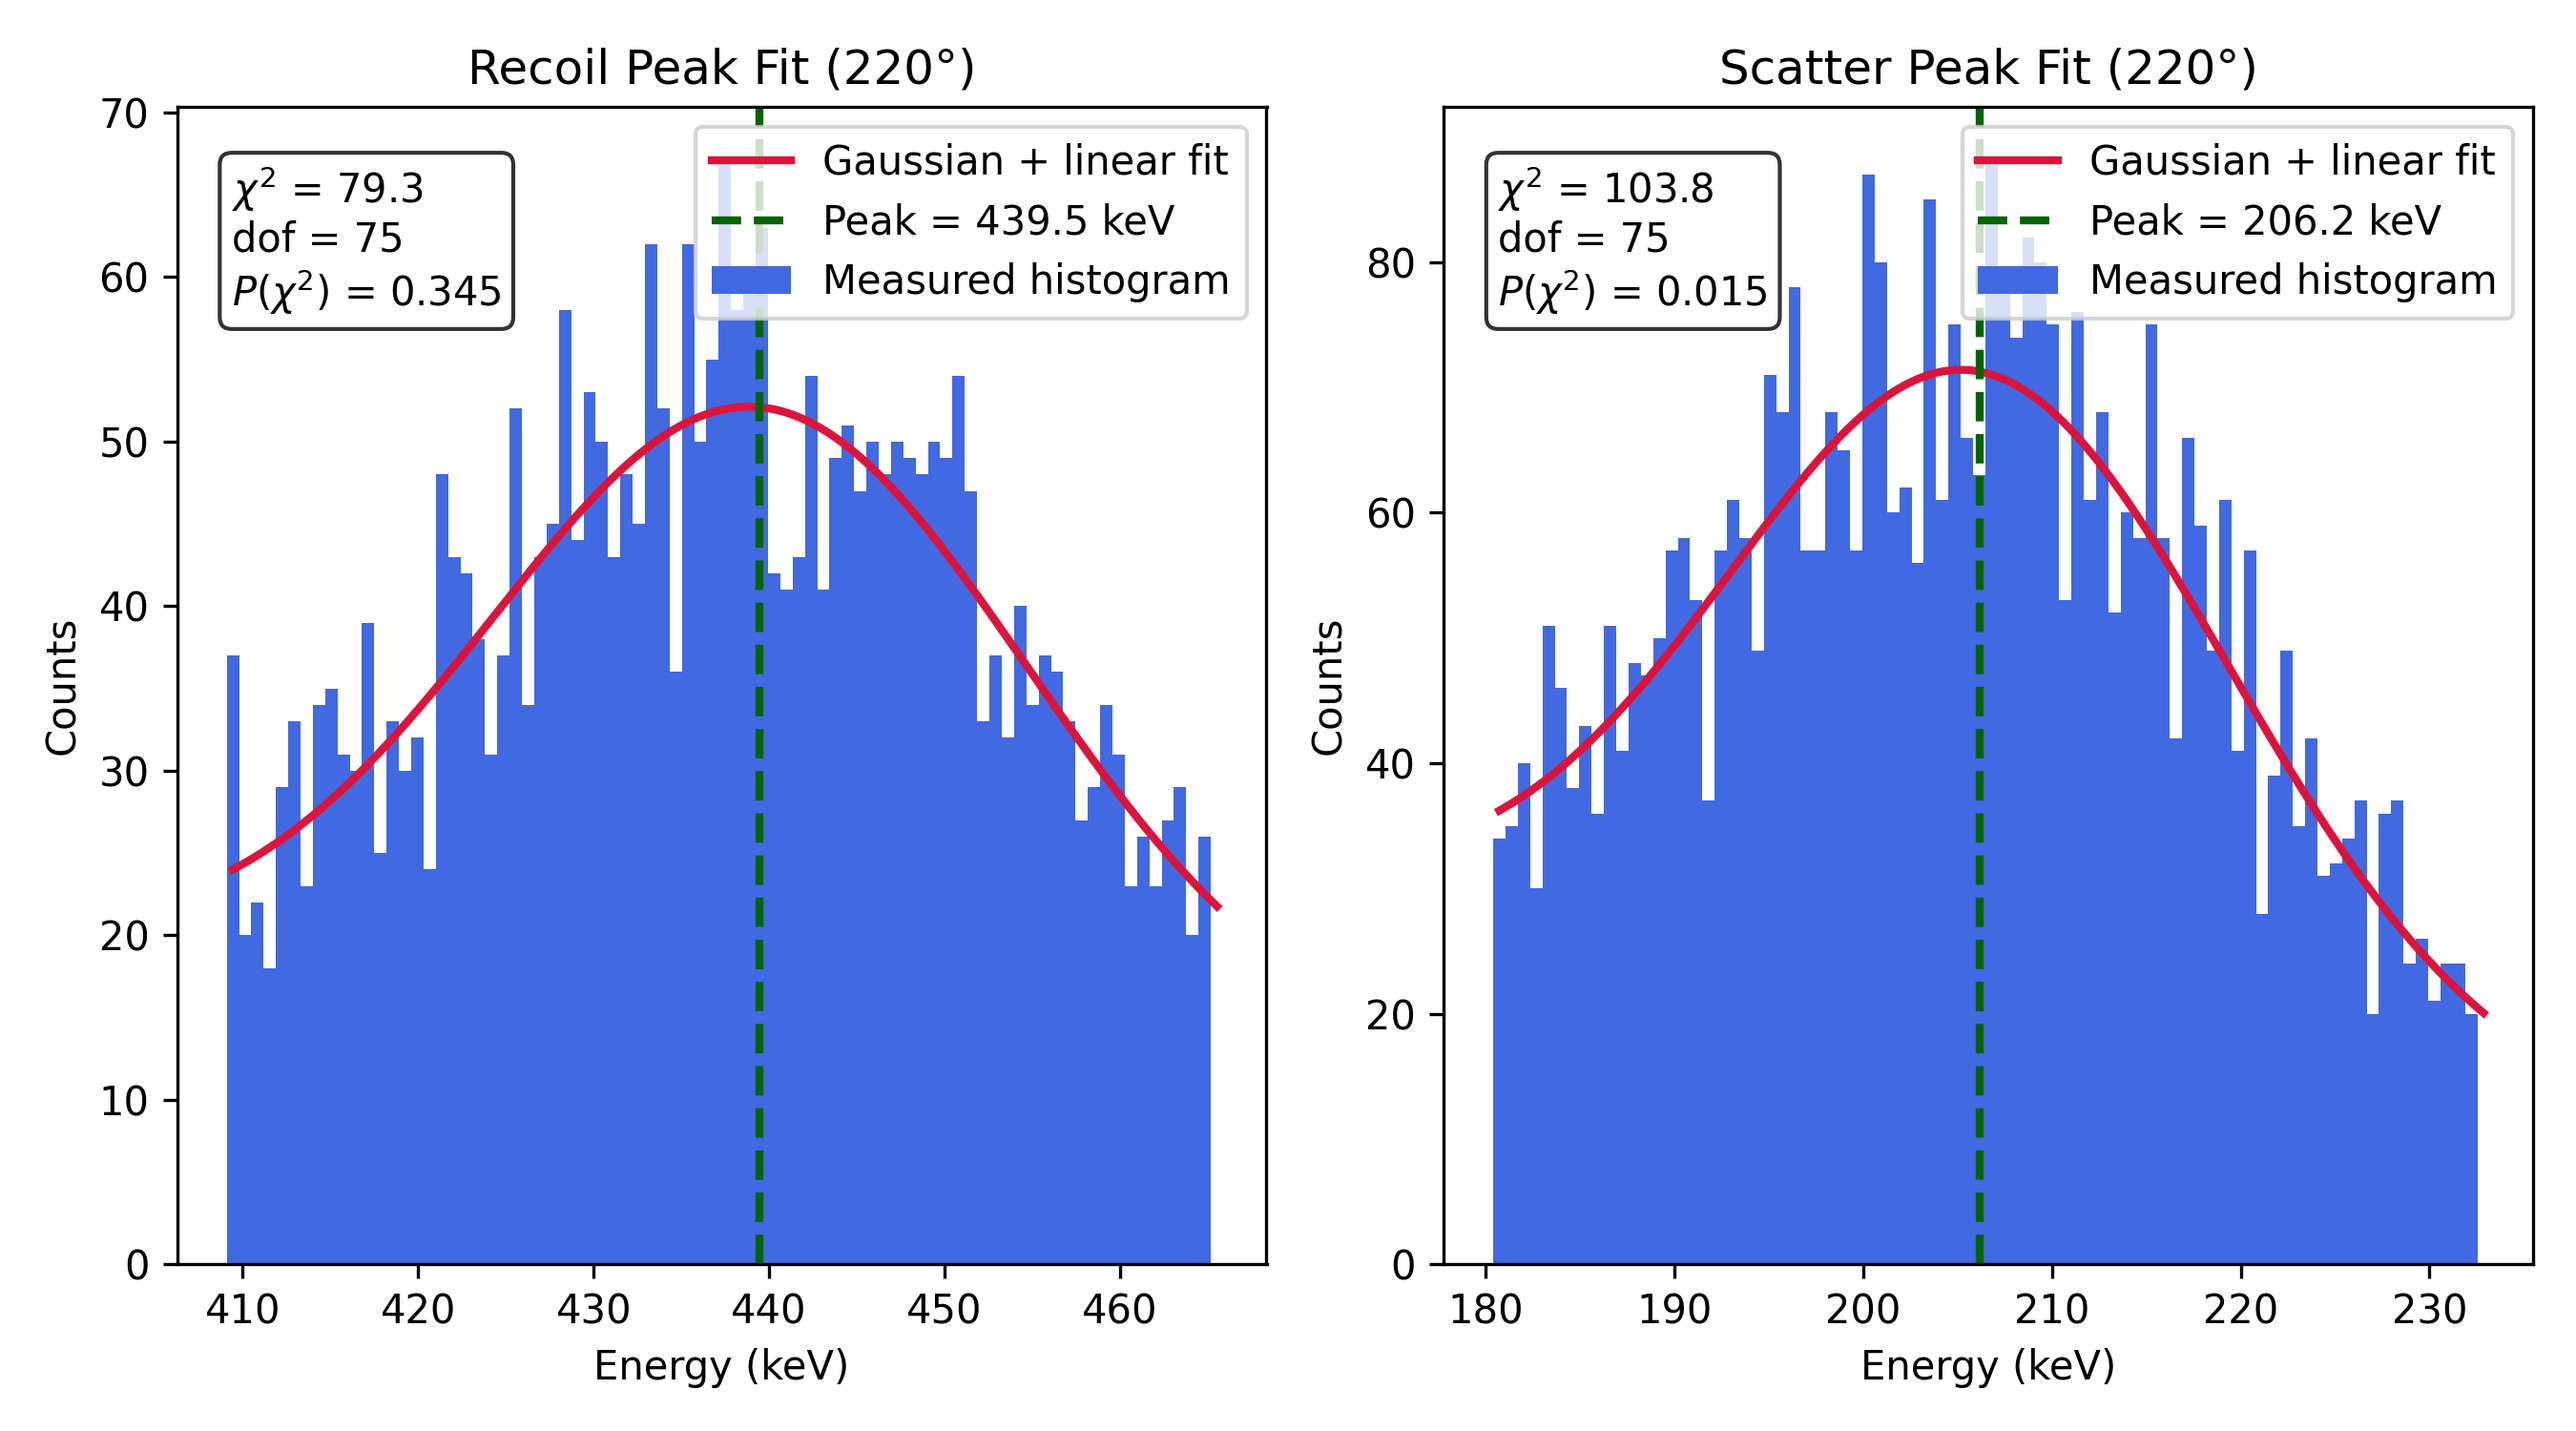
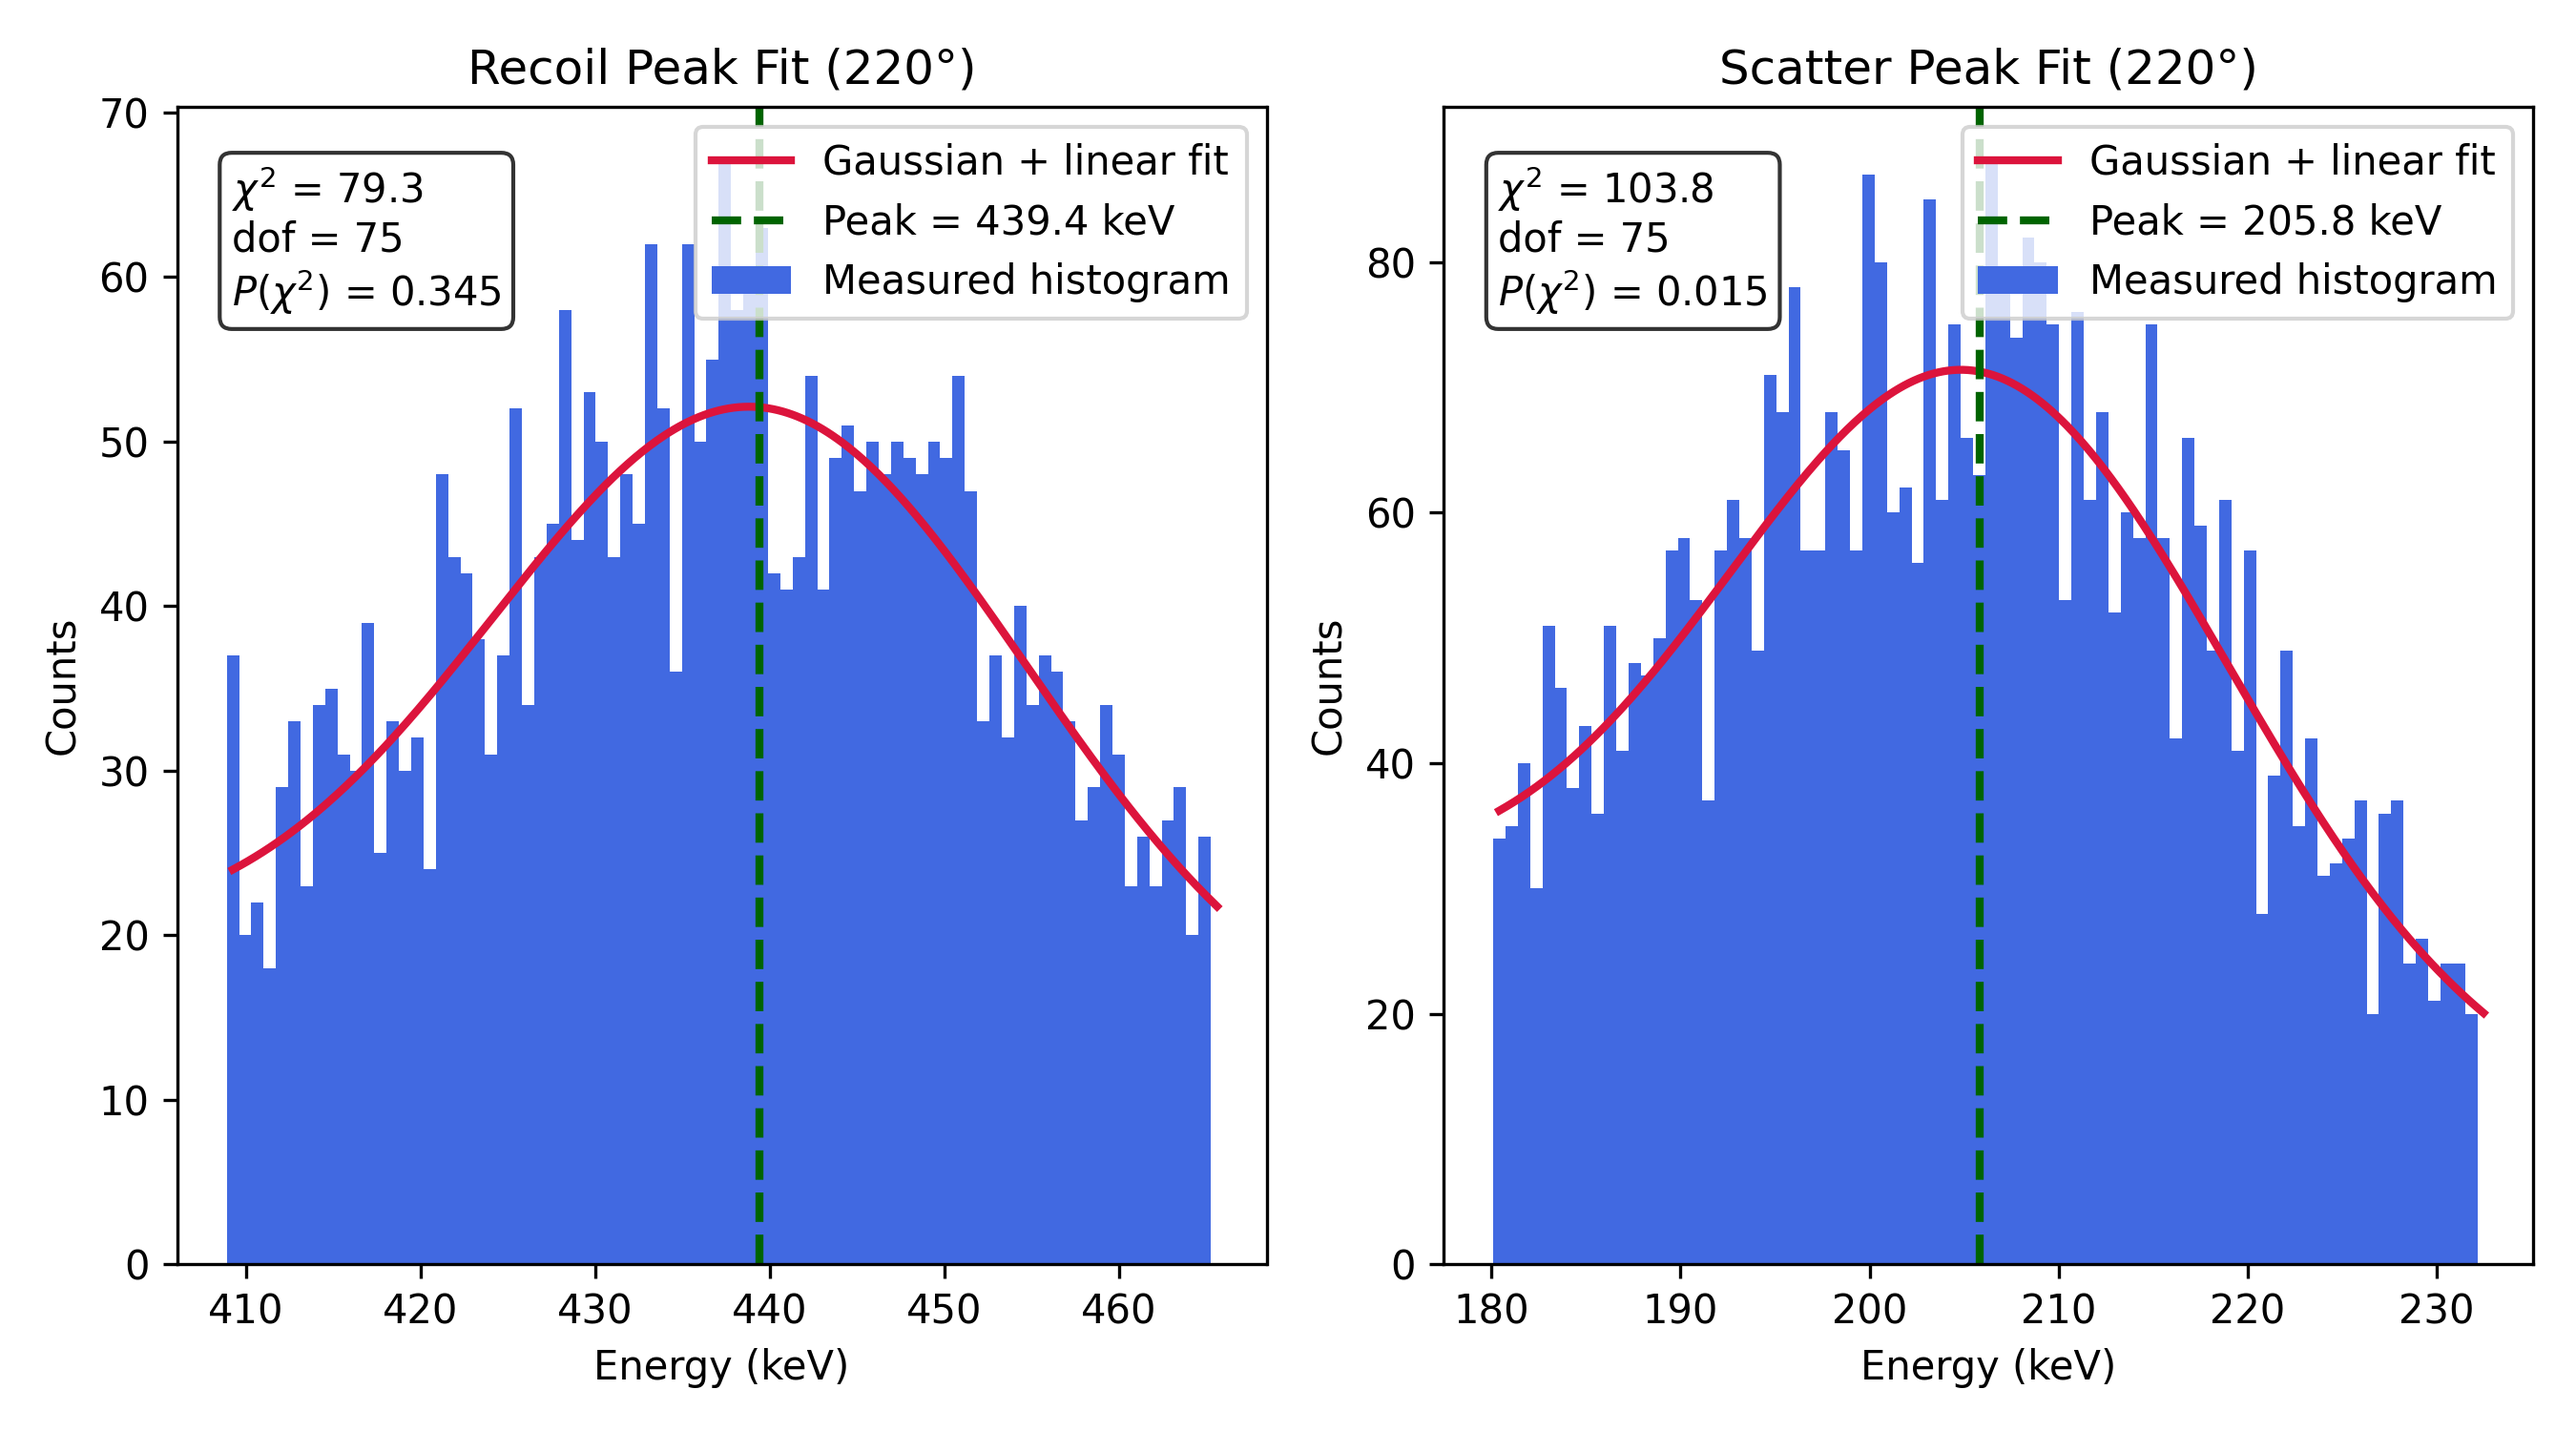
updated analysis

diff --git a/03-10/analysis.py b/03-10/analysis.py
@@ -12,10 +12,10 @@ SMOOTH_FACTOR = 120
 MIN_PROMINENCE = 0.05
 MIN_DISTANCE = 80
 
-RECOIL_SLOPE = 0.70107
-RECOIL_INTERCEPT = -8.40091
-SCATTER_SLOPE = 0.65156
-SCATTER_INTERCEPT = -8.21614
+RECOIL_SLOPE = 0.70457
+RECOIL_INTERCEPT = -10.68206
+SCATTER_SLOPE = 0.65061
+SCATTER_INTERCEPT = -8.25998
 
 # ==============================
 # Files organized by angle
@@ -337,3 +337,108 @@ plt.grid(True)
 plt.tight_layout()
 plt.savefig("energy_sum_vs_angle.png", dpi=300)
 plt.close()
+
+import os
+
+# Make folder for secondary peak fits
+os.makedirs("secondary_peak_fits", exist_ok=True)
+
+secondary_peak_energies = []
+
+for angle, files in spe_files.items():
+
+    # Only look at recoil histogram
+    recoil_file = files[0]
+    hist = rebin(read_spe_histogram(recoil_file), factor=2)
+
+    # Use calibration
+    slope = RECOIL_SLOPE
+    intercept = RECOIL_INTERCEPT
+
+    # Approximate channel for ~660 keV
+    approx_bin = int((660 - intercept) / slope)
+    window = 40  # you can adjust
+
+    # Define zoom region
+    left = max(approx_bin - window, 0)
+    right = min(approx_bin + window, len(hist))
+
+    # Extract counts in this region
+    x = np.arange(left, right)
+    y = hist[left:right]
+
+    # Poisson uncertainties
+    sigma = np.sqrt(y)
+    sigma[sigma < 1] = 1
+
+    # Initial guesses
+    A0 = np.max(y)
+    mu0 = approx_bin
+    sigma0 = window / 3
+    m0 = 0
+    b0 = np.min(y)
+    p0 = [A0, mu0, sigma0, m0, b0]
+
+    # Bounds
+    lower_bounds = [0, left, 1, -np.inf, -np.inf]
+    upper_bounds = [np.inf, right, window, np.inf, np.inf]
+
+    # Fit
+    try:
+        popt, pcov = curve_fit(
+            gaussian_linear,
+            x,
+            y,
+            p0=p0,
+            sigma=sigma,
+            absolute_sigma=True,
+            bounds=(lower_bounds, upper_bounds),
+            maxfev=10000
+        )
+    except RuntimeError:
+        popt = p0
+
+    mu = popt[1]
+    peak_energy = slope * mu + intercept
+    secondary_peak_energies.append(peak_energy)
+
+    # Chi^2 (optional, for diagnostics)
+    model = gaussian_linear(x, *popt)
+    chi2_val = np.sum(((y - model)/sigma)**2)
+    ndof = len(y) - len(popt)
+    chi2_prob = chi2.sf(chi2_val, ndof)
+
+    # ===========================
+    # Plot zoomed fit
+    # ===========================
+    plt.figure(figsize=(5,4))
+    energy_zoom = slope * x + intercept
+    plt.bar(energy_zoom, y, width=slope, color="royalblue", label="Recoil histogram")
+    xfit = np.linspace(left, right, 400)
+    yfit = gaussian_linear(xfit, *popt)
+    plt.plot(slope*xfit + intercept, yfit, color="crimson", linewidth=2, label="Gaussian+linear fit")
+    plt.axvline(peak_energy, color="darkgreen", linestyle="--", label=f"Peak = {peak_energy:.1f} keV")
+    plt.xlabel("Energy (keV)")
+    plt.ylabel("Counts")
+    plt.title(f"Recoil Secondary Peak Fit ({angle}°)")
+    plt.legend()
+    plt.text(
+        0.05,
+        0.95,
+        f"$\\chi^2$ = {chi2_val:.1f}\n"
+        f"dof = {ndof}\n"
+        f"$P(\\chi^2)$ = {chi2_prob:.3f}",
+        transform=plt.gca().transAxes,
+        verticalalignment="top",
+        bbox=dict(boxstyle="round", facecolor="white", alpha=0.8)
+    )
+
+    plt.tight_layout()
+    plt.savefig(f"secondary_peak_fits/Recoil_{angle}_secondary_peak.png", dpi=300)
+    plt.close()
+
+# ===========================
+# Print average secondary peak energy
+# ===========================
+avg_secondary_peak = np.mean(secondary_peak_energies)
+print(f"Average secondary peak energy (keV) = {avg_secondary_peak:.2f}")

diff --git a/03-10/linear-fit.py b/03-10/linear-fit.py
@@ -5,8 +5,8 @@ from scipy.stats import chi2, linregress
 # =========================
 # Data
 # =========================
-x_recoil = np.array([745, 128, 241, 436, 521])
-x_scatter = np.array([793, 136, 260, 475, 563])
+x_recoil = np.array([743.740, 128.922, 247.548, 437.363, 519.206])
+x_scatter = np.array([793, 136, 260, 482.004, 559.547])
 y = np.array([511, 81, 160, 302, 356])
 
 # Poisson uncertainties (standard for count data)
